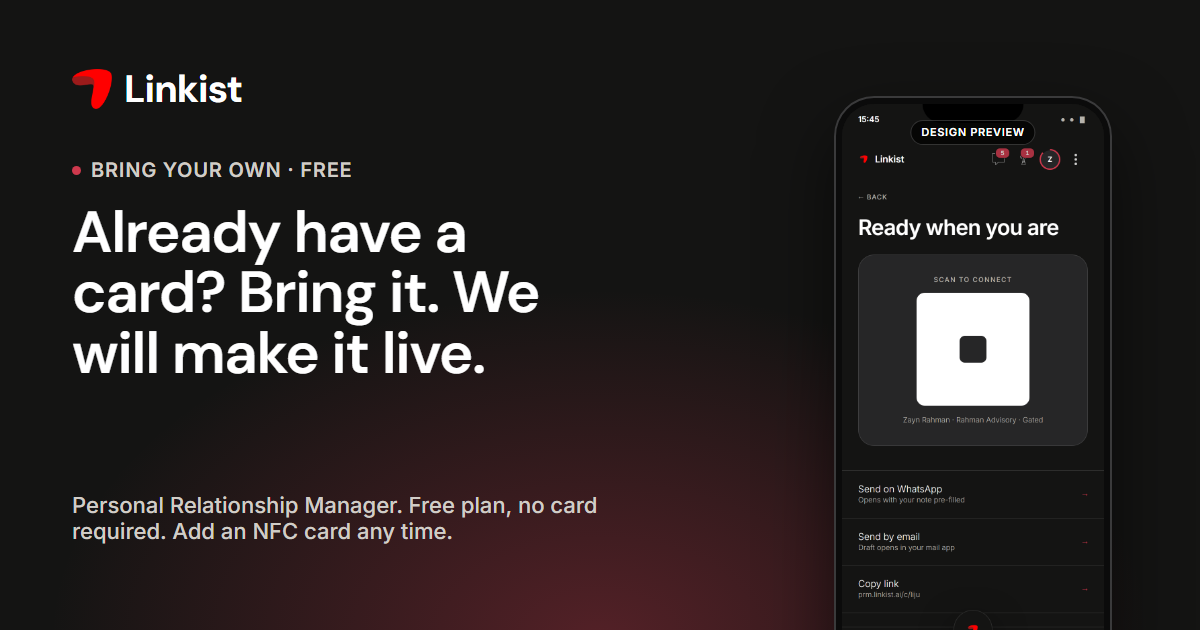
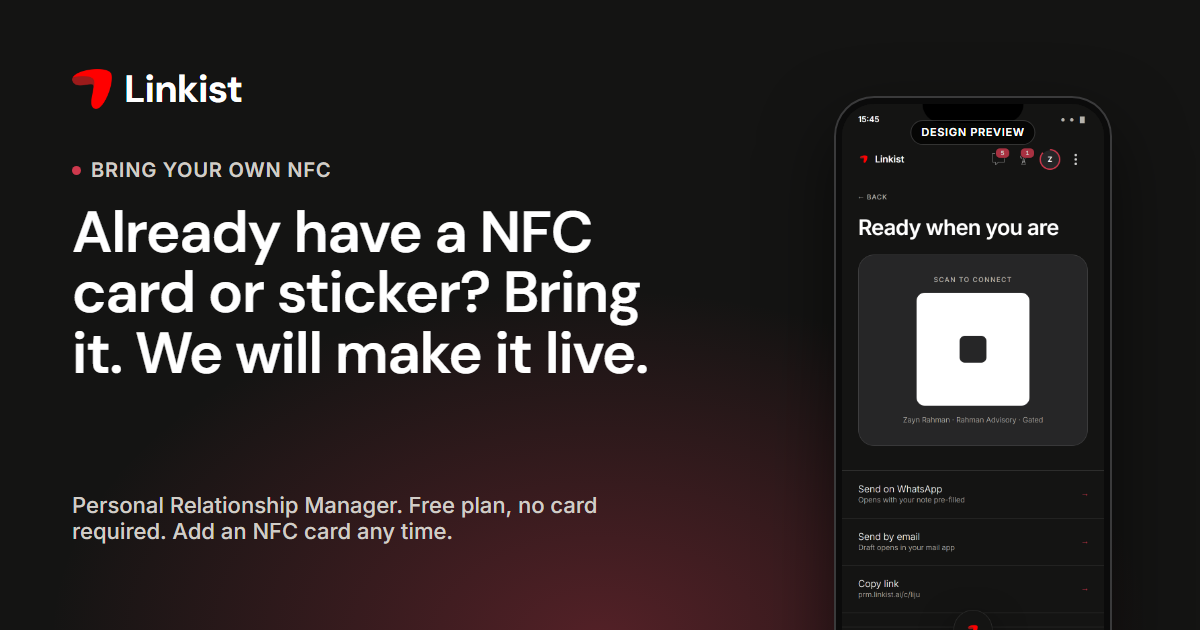
feat: Bring your own NFC page keeps the card-or-sticker path only; title and heading in the owner's words

Changed region(s): [[0.0617, 0.3317, 0.555, 0.6032], [0.2467, 0.2413, 0.3083, 0.3016]]

diff --git a/src/app/bring-your-own/page.tsx b/src/app/bring-your-own/page.tsx
@@ -1,5 +1,5 @@
 import type { Metadata } from 'next';
-import { ArrowRight, Brain, Inbox, Link2, Nfc, RefreshCw } from 'lucide-react';
+import { ArrowRight, Brain, Inbox, Nfc, RefreshCw } from 'lucide-react';
 import { Breadcrumbs } from '@/components/Breadcrumbs';
 import { Button, TextLink } from '@/components/Button';
 import { ClosingBand } from '@/components/ClosingBand';
@@ -8,21 +8,20 @@ import { ScreenFrame } from '@/components/ScreenFrame';
 import { Section } from '@/components/Section';
 import { PROTO_ALT } from '@/content/design';
 import { person, screen } from '@/lib/screens';
-import { FREE_PROFILE_URL, NFC_TOOLS_URL, pageMeta } from '@/lib/site';
+import { NFC_TOOLS_URL, pageMeta } from '@/lib/site';
 
 export const metadata: Metadata = pageMeta(
-  'Bring your own NFC card, sticker or profile link',
-  'Already have an NFC card, a sticker or a profile link that has gone stale? Linkist takes it over in about a minute, free. You keep the hardware and get the intelligence.',
+  'Bring your own NFC',
+  'Already have an NFC card or sticker? Linkist takes it over in about a minute, free. You keep the hardware and get the intelligence.',
   '/bring-your-own',
   { image: '/og/bring-your-own.png' },
 );
 
 /**
  * Bring your own (D51, from linkist-bring-your-own-nfc-v1.html): the page behind "Already have an
- * NFC card? Bring your own" in the hero. Two paths and one final button. The card and sticker path
- * and the Activate button open the NFC tools site, which reads and writes the chip; the profile
- * link path starts with the free quick profile, since the profile has to exist before it can be
- * written anywhere (owner, 21 September 2026).
+ * NFC card? Bring your own" in the hero. One path, an NFC card or sticker, and one final button, both
+ * opening the NFC tools site, which reads and writes the chip. The prototype's second path, an
+ * existing profile link, was dropped: it only collected sign-up information (owner, 21 September 2026).
  */
 const PATHS = [
   {
@@ -36,14 +35,6 @@ const PATHS = [
     ],
     href: NFC_TOOLS_URL,
   },
-  {
-    key: 'link',
-    icon: Link2,
-    title: 'Any existing profile link',
-    body: 'A Linktree, a personal site, or an old card link. Paste it and watch your Linkist profile build itself.',
-    list: [],
-    href: FREE_PROFILE_URL,
-  },
 ] as const;
 
 const FEATURES = [
@@ -53,7 +44,7 @@ const FEATURES = [
 ] as const;
 
 const FAQ = [
-  { q: 'Does it cost anything?', a: 'No. Bringing your own card, sticker or link is free forever and asks for no payment details. Every profile includes the PRM Essential plan.' },
+  { q: 'Does it cost anything?', a: 'No. Bringing your own card or sticker is free forever and asks for no payment details. Every profile includes the PRM Essential plan.' },
   { q: 'Which cards and stickers work?', a: 'Any NFC card or sticker with a writable NTAG-type chip, which covers the cards most other digital-card brands ship. The NFC tools site reads the chip first and tells you if it cannot be written.' },
   { q: 'Do I need a particular phone?', a: 'Encoding a chip needs an Android phone with NFC. The profile written onto the card then opens on every phone, iPhone included.' },
   { q: 'What happens to the old link on the card?', a: 'It is replaced by your Linkist address. Anyone who taps the card from then on sees your live Linkist profile, and you can change what it shows at any time without touching the card again.' },
@@ -63,16 +54,16 @@ export default function BringYourOwnPage() {
   return (
     <>
       <Section tight className="pt-8 sm:pt-10">
-        <Breadcrumbs items={[{ label: 'NFC cards', href: '/nfc-cards' }, { label: 'Bring your own', href: '/bring-your-own' }]} />
+        <Breadcrumbs items={[{ label: 'NFC cards', href: '/nfc-cards' }, { label: 'Bring your own NFC', href: '/bring-your-own' }]} />
         <div className="mt-8 grid items-center gap-12 lg:grid-cols-[minmax(0,7fr)_minmax(0,5fr)]">
           <div>
-            <p className="eyebrow">Bring your own · Free</p>
+            <p className="eyebrow">Bring your own NFC</p>
             <h1 className="display-1 mt-5">
-              Already have a card, a sticker, or a link?
+              Already have a NFC card or sticker?
               <br />
               <span className="em-coral">Bring it. We will make it live.</span>
             </h1>
-            <p className="lede mt-6 max-w-2xl">You do not need to buy anything to start. If you already own an NFC card or sticker, or just have a profile link that has gone stale, Linkist takes it over in about a minute. You keep the hardware. You get the intelligence.</p>
+            <p className="lede mt-6 max-w-2xl">You do not need to buy anything to start. If you already own an NFC card or sticker, Linkist takes it over in about a minute. You keep the hardware. You get the intelligence.</p>
             <div className="mt-8 flex flex-col items-start gap-4 sm:flex-row sm:items-center">
               <Button href={NFC_TOOLS_URL} size="lg">
                 Activate what I already have
@@ -91,7 +82,7 @@ export default function BringYourOwnPage() {
       </Section>
 
       <Section tone="charcoal" id="paths">
-        <div className="mx-auto grid max-w-4xl gap-5 md:grid-cols-2" data-reveal="rise" data-reveal-stagger="0.1">
+        <div className="mx-auto grid max-w-2xl gap-5" data-reveal="rise" data-reveal-stagger="0.1">
           {PATHS.map((p) => (
             <a key={p.key} href={p.href} className="card lift flex flex-col p-8 no-underline">
               <span className="chip__icon" aria-hidden="true">
@@ -99,7 +90,7 @@ export default function BringYourOwnPage() {
               </span>
               <h2 className="display-3 mt-6">{p.title}</h2>
               <p className="mt-3 text-sm text-body">{p.body}</p>
-              {p.list.length ? (
+              {p.list.length > 0 ? (
                 <ul className="mt-4 flex flex-col gap-2 text-sm text-body">
                   {p.list.map(([lead, rest]) => (
                     <li key={lead} className="flex gap-2">

diff --git a/src/app/nfc-cards/page.tsx b/src/app/nfc-cards/page.tsx
@@ -1,5 +1,5 @@
 import type { Metadata } from 'next';
-import { Link2, Nfc, QrCode, RefreshCw, UserCheck } from 'lucide-react';
+import { Nfc, QrCode, RefreshCw, UserCheck } from 'lucide-react';
 import { Breadcrumbs } from '@/components/Breadcrumbs';
 import { Button, TextLink } from '@/components/Button';
 import { ClosingBand } from '@/components/ClosingBand';
@@ -35,7 +35,7 @@ const FAQ = [
   { q: 'What is the difference between Starter and Signature?', a: 'Starter has no customisation. Signature carries your name and logo. Both come in PVC, cherry wood or brushed metal and both include PRM Essential.' },
   { q: 'Which currency are cards priced in?', a: 'The store prices in AED and shows an approximate dollar figure beside each NFC card.' },
   { q: 'Is shipping included?', a: 'Yes. NFC cards ship within the UAE with shipping included. Other countries are not served yet.' },
-  { q: 'Can I use an NFC card I already own?', a: 'Yes, free. At nfctools.linkist.ai, tap your existing NFC card or sticker on your phone and Linkist writes your live profile onto it, or paste an old profile link. Encoding a chip needs an Android phone.' },
+  { q: 'Can I use an NFC card I already own?', a: 'Yes, free. At nfctools.linkist.ai, tap your existing NFC card or sticker on your phone and Linkist writes your live profile onto it. Encoding a chip needs an Android phone.' },
   { q: 'Can I return an NFC card?', a: 'Custom products are returnable where the product is defective, there was a production error, or it differs materially from the confirmed order, within 7 days of delivery.' },
 ] as const;
 
@@ -122,11 +122,11 @@ export default function NfcCardsPage() {
       <Section tone="lifted" id="byo">
         <div className="grid items-center gap-10 lg:grid-cols-2">
           <div data-reveal="rise">
-            <p className="eyebrow">Bring your own</p>
+            <p className="eyebrow">Bring your own NFC</p>
             <h2 className="display-2 mt-4">
               Already have an NFC card? <span className="em-coral">Make it live, free.</span>
             </h2>
-            <p className="lede mt-4">Keep your hardware and put Linkist on it. Tap an NFC card or sticker you already own and Linkist writes your live profile onto it, or paste an old profile link and your Linkist profile builds itself.</p>
+            <p className="lede mt-4">Keep your hardware and put Linkist on it. Tap an NFC card or sticker you already own and Linkist writes your live profile onto it.</p>
             <p className="mt-4 text-sm text-muted">Free forever, no payment details. Encoding a chip needs an Android phone; the profile then works on every device.</p>
             <div className="mt-6 flex flex-col items-start gap-4 sm:flex-row sm:items-center">
               <Button href={NFC_TOOLS_URL} variant="secondary">
@@ -145,10 +145,10 @@ export default function NfcCardsPage() {
             </div>
             <div className="card card--sm p-6">
               <span className="chip__icon" aria-hidden="true">
-                <Link2 size={14} />
+                <RefreshCw size={14} />
               </span>
-              <h3 className="display-3 mt-3 text-[20px]">Any existing profile link</h3>
-              <p className="mt-2 text-sm text-body">A Linktree, a personal site, an old card link. Paste it and your Linkist profile builds itself.</p>
+              <h3 className="display-3 mt-3 text-[20px]">Change it forever</h3>
+              <p className="mt-2 text-sm text-body">Your details live behind one permanent address, so a new role never means a new card.</p>
             </div>
           </div>
         </div>

diff --git a/src/content/help.ts b/src/content/help.ts
@@ -130,7 +130,7 @@ export const HELP: readonly HelpEntry[] = [
   e('NFC cards and shipping', 'Is shipping included?', 'Yes. NFC cards ship within the UAE with shipping included. Other countries are not served yet.'),
   e('NFC cards and shipping', 'Can I change or cancel an order?', 'Ask within 24 hours of ordering. Because cards are custom made, a change is not guaranteed once production has started.', [TERMS]),
   e('NFC cards and shipping', 'Can I return an NFC card?', 'Custom products are returnable where the product is defective, there was a production error, or it differs materially from the confirmed order. Contact support within 7 days of delivery; approved refunds usually take 5 to 10 business days.', [TERMS]),
-  e('NFC cards and shipping', 'Can I use an NFC card or sticker I already own?', 'Yes, free. At nfctools.linkist.ai, tap the card or sticker on your phone and Linkist writes your live profile onto it, or paste an existing profile link and your Linkist profile builds itself. Encoding a chip needs an Android phone; the profile then works on every device.'),
+  e('NFC cards and shipping', 'Can I use an NFC card or sticker I already own?', 'Yes, free. At nfctools.linkist.ai, tap the card or sticker on your phone and Linkist writes your live profile onto it. Encoding a chip needs an Android phone; the profile then works on every device.'),
   e('NFC cards and shipping', 'What are the bundles?', 'The Signature Bundle is any Signature NFC card plus 1 year of Pro for $100. The Founders Circle Bundle is the Founders Circle NFC card plus lifetime Pro for $150, one time.', [{ label: 'Bundles', href: '/bundles' }]),
   e('NFC cards and shipping', 'What is the Founders Circle?', 'A limited early-supporter offer described on linkist.ai: an NFC card, a Founders Circle badge, lifetime Pro and early-member perks. Whether it is still open is confirmed with the team; the bundle page says so when it closes.'),
 

diff --git a/src/content/og.ts b/src/content/og.ts
@@ -23,7 +23,7 @@ export const OG_PAGES: readonly OgPage[] = [
   { slug: 'features-teams', title: 'Relationships that stay with the company.', eyebrow: 'Teams', screen: 'v6-contacts' },
   { slug: 'use-cases', title: 'Built for real working days.', eyebrow: 'Use cases', screen: 'v6-home' },
   { slug: 'nfc-cards', title: 'Tap. Share. Make the first impression count.', eyebrow: 'Linkist NFC cards', screen: 'v6-share' },
-  { slug: 'bring-your-own', title: 'Already have a card? Bring it. We will make it live.', eyebrow: 'Bring your own · Free', screen: 'v6-shareready' },
+  { slug: 'bring-your-own', title: 'Already have a NFC card or sticker? Bring it. We will make it live.', eyebrow: 'Bring your own NFC', screen: 'v6-shareready' },
   { slug: 'bundles', title: 'The NFC card and PRM Pro together.', eyebrow: 'Bundled offers', screen: 'v6-share' },
   { slug: 'pricing', title: 'Start free. Add more when you need it.', eyebrow: 'Linkist PRM pricing', screen: 'v6-home' },
   { slug: 'teams', title: 'Relationships that stay with the company.', eyebrow: 'Linkist for teams', screen: 'v6-contacts' },

diff --git a/src/content/changelog.ts b/src/content/changelog.ts
@@ -73,7 +73,7 @@ export const CHANGELOG: readonly Change[] = [
 export const IN_PRODUCT: readonly { title: string; body: string }[] = [
   { title: 'Sign in with a code', body: 'Email or mobile number and a one-time code on one screen that also creates the account. No password.' },
   { title: 'NFC cards in three materials', body: 'PVC and brushed metal in white or black with four patterns, and cherry wood, priced in AED with an approximate dollar figure. Every card includes PRM Essential.' },
-  { title: 'Bring your own NFC card', body: 'An NFC card or sticker you already own can be encoded with your live profile for free at nfctools.linkist.ai, or an existing profile link imported.' },
+  { title: 'Bring your own NFC card', body: 'An NFC card or sticker you already own can be encoded with your live profile for free at nfctools.linkist.ai.' },
     { title: 'A billing hub', body: 'Plans, AI credit top-ups, invoices and NFC card orders in one place at prm.linkist.ai.' },
 ];
 

diff --git a/docs/decision-log.md b/docs/decision-log.md
@@ -54,4 +54,4 @@ One line per decision, newest last. Format: date, decision, why, trade-off noted
 | D48 | 2026-09-14 | The card tiers section is titled "NFC card pricing"; each tier card carries its own "Get your Starter NFC card" or "Get your Signature NFC card" button to the store (`STORE_URL`), the switcher row is aligned to the cards' width, and the tap step reads "They keep your details" so the meaning lands. VAT is not mentioned anywhere on the site (the help entry on VAT is removed; the company's published terms, which mention it once, are not the site's text to edit). | Owner, 14 September 2026: the section label, the unclear step, alignment and breakage in the tiers section, no VAT sitewide, and a button per tier. | The store has one entry point for both tiers today; the buttons land on the store and the tier is chosen there. |
 | D49 | 2026-09-16 | The swirl is gone from the hero too, and the section grounds return to the initial design: near-black, charcoal and the slightly lifted charcoal of D2. The hero keeps its viewport-tall block (D44), the cards keep their glass (D36, D40). | Owner, 16 September: "remove the hero background swirls and make the sections style look like the initial design". | The three swirl masters stay under `public/assets/masters/backgrounds/` (git-ignored) in case they are wanted again; the delivered WebP is removed. |
 | D50 | 2026-09-17 | The home hero is one static block in the owner's words, word for word: eyebrow, "Capture contacts. Remember context. Follow up at the right time.", the AI-powered PRM lede, "Create Free Profile" and "Get Linkist NFC", the free-to-start line, the App Store and Google Play badges, and "Already have an NFC card? Bring your own" to the NFC tools site. The two-slide PRM and NFC switcher (D15, D44) and the proof strip are gone; the carousel, the intent hero and their styles are deleted. On the right, a composite product shot: a Nano Banana 2 render of a phone with a flat magenta screen and two blank cards, the real `proto-home` design preview placed on the screen wherever the magenta is, the brand mark file composited onto the black card, the magenta spill on the surface turned crimson (`scripts/hero-composite.ts`, then `pnpm imagery hero-composite`), badged "Design preview". The hero lede keeps its em dash and `scripts/seo.ts` allows it on `/` alone. The store badges link only when `NEXT_PUBLIC_APP_STORE_URL` and `NEXT_PUBLIC_PLAY_STORE_URL` are set; until then each is inert, dimmed and says "Coming soon". | Owner, 16 September 2026, with the hero mockup attached: management does not want the PRM and NFC card switching; "replace the hero with the attached one, maybe you can adjust the design but writings should be as it is", and the product shot generated through Magnific. The badges cannot link because no listings exist (R3, audit); a dead link would be worse than a labelled one. | The page title, Open Graph card and glossary tagline still read "Act at the right time." (the owner's copy is for the hero); the mockup's "Trusted by professionals and teams across industries" strip is not built because no customer has consented to be named (audit, customers page). The hero-1 person slot of the image plan is retired. 225 credits for the three renders; the second was used. |
-| D51 | 2026-09-21 | Owner round of 21 September, in one commit: (1) the home "How Linkist works" and "Use cases" sections follow linkist-homepage-v1.html, cards with a picture and a heading only: three stage cards (numbered badge, the stage's screen in a phone, name, one line; one lifted at a time, the chips still steer it) and five use-case cards (a 4:3 crop of the screen the use case turns on, the short title, an arrow), the bullets, outcomes and capability tags now living on /how-it-works, the feature pages and the use-case pages; (2) a new page /bring-your-own after linkist-bring-your-own-nfc-v1.html, linked from the hero's "Already have an NFC card? Bring your own", the footer and the cards page, its card-or-sticker path and Activate button opening nfctools.linkist.ai and its profile-link path the free quick profile; (3) the app screens sitewide come from the PRM v6 prototype (scripts/capture-v6.ts, 22 screens captured in the dark theme at 2x, plus 4:3 crops) and the owner's six public-profile samples (public/screens/profile-*.webp; the Signature card renders as public/assets/cards/sample-*.webp), the three old composite crops retired; (4) Terms of Service v1.2 (7 August 2026) and Privacy Policy v1.3 (14 September 2026) reproduced from the supplied Word files (scripts/legal-from-docx.ts), the section citations on /ai and /security renumbered (privacy sections from 13 shift by one, terms sections from 5 by two), Google and Microsoft contact import and marketing consent noted; (5) every Start free / Get the App button goes to prm.linkist.ai/quick-profile and every Get NFC Card / store button to prm.linkist.ai/store/start; (6) the hero shows a phone with a profile sample and its Signature card leaning on it, no white card, no boxed container; the Nano Banana composite scene and its script are retired. | Owner, 21 September 2026, with four answers: app screen crops for the use-case art, the button targets above, sitewide scope, the profile sample for the hero. | Every phone frame still carries the Design preview badge (rule 2): the v6 screens and the profile samples are mockups, not captures of the live app. |
+| D51 | 2026-09-21 | Owner round of 21 September, in one commit: (1) the home "How Linkist works" and "Use cases" sections follow linkist-homepage-v1.html, cards with a picture and a heading only: three stage cards (numbered badge, the stage's screen in a phone, name, one line; one lifted at a time, the chips still steer it) and five use-case cards (a 4:3 crop of the screen the use case turns on, the short title, an arrow), the bullets, outcomes and capability tags now living on /how-it-works, the feature pages and the use-case pages; (2) a new page /bring-your-own after linkist-bring-your-own-nfc-v1.html, linked from the hero's "Already have an NFC card? Bring your own", the footer and the cards page, its card-or-sticker path and Activate button opening nfctools.linkist.ai (the prototype's profile-link path was dropped later that day: the owner said it only collected sign-up details; the page is titled Bring your own NFC); (3) the app screens sitewide come from the PRM v6 prototype (scripts/capture-v6.ts, 22 screens captured in the dark theme at 2x, plus 4:3 crops) and the owner's six public-profile samples (public/screens/profile-*.webp; the Signature card renders as public/assets/cards/sample-*.webp), the three old composite crops retired; (4) Terms of Service v1.2 (7 August 2026) and Privacy Policy v1.3 (14 September 2026) reproduced from the supplied Word files (scripts/legal-from-docx.ts), the section citations on /ai and /security renumbered (privacy sections from 13 shift by one, terms sections from 5 by two), Google and Microsoft contact import and marketing consent noted; (5) every Start free / Get the App button goes to prm.linkist.ai/quick-profile and every Get NFC Card / store button to prm.linkist.ai/store/start; (6) the hero shows a phone with a profile sample and its Signature card leaning on it, no white card, no boxed container; the Nano Banana composite scene and its script are retired. | Owner, 21 September 2026, with four answers: app screen crops for the use-case art, the button targets above, sitewide scope, the profile sample for the hero. | Every phone frame still carries the Design preview badge (rule 2): the v6 screens and the profile samples are mockups, not captures of the live app. |
